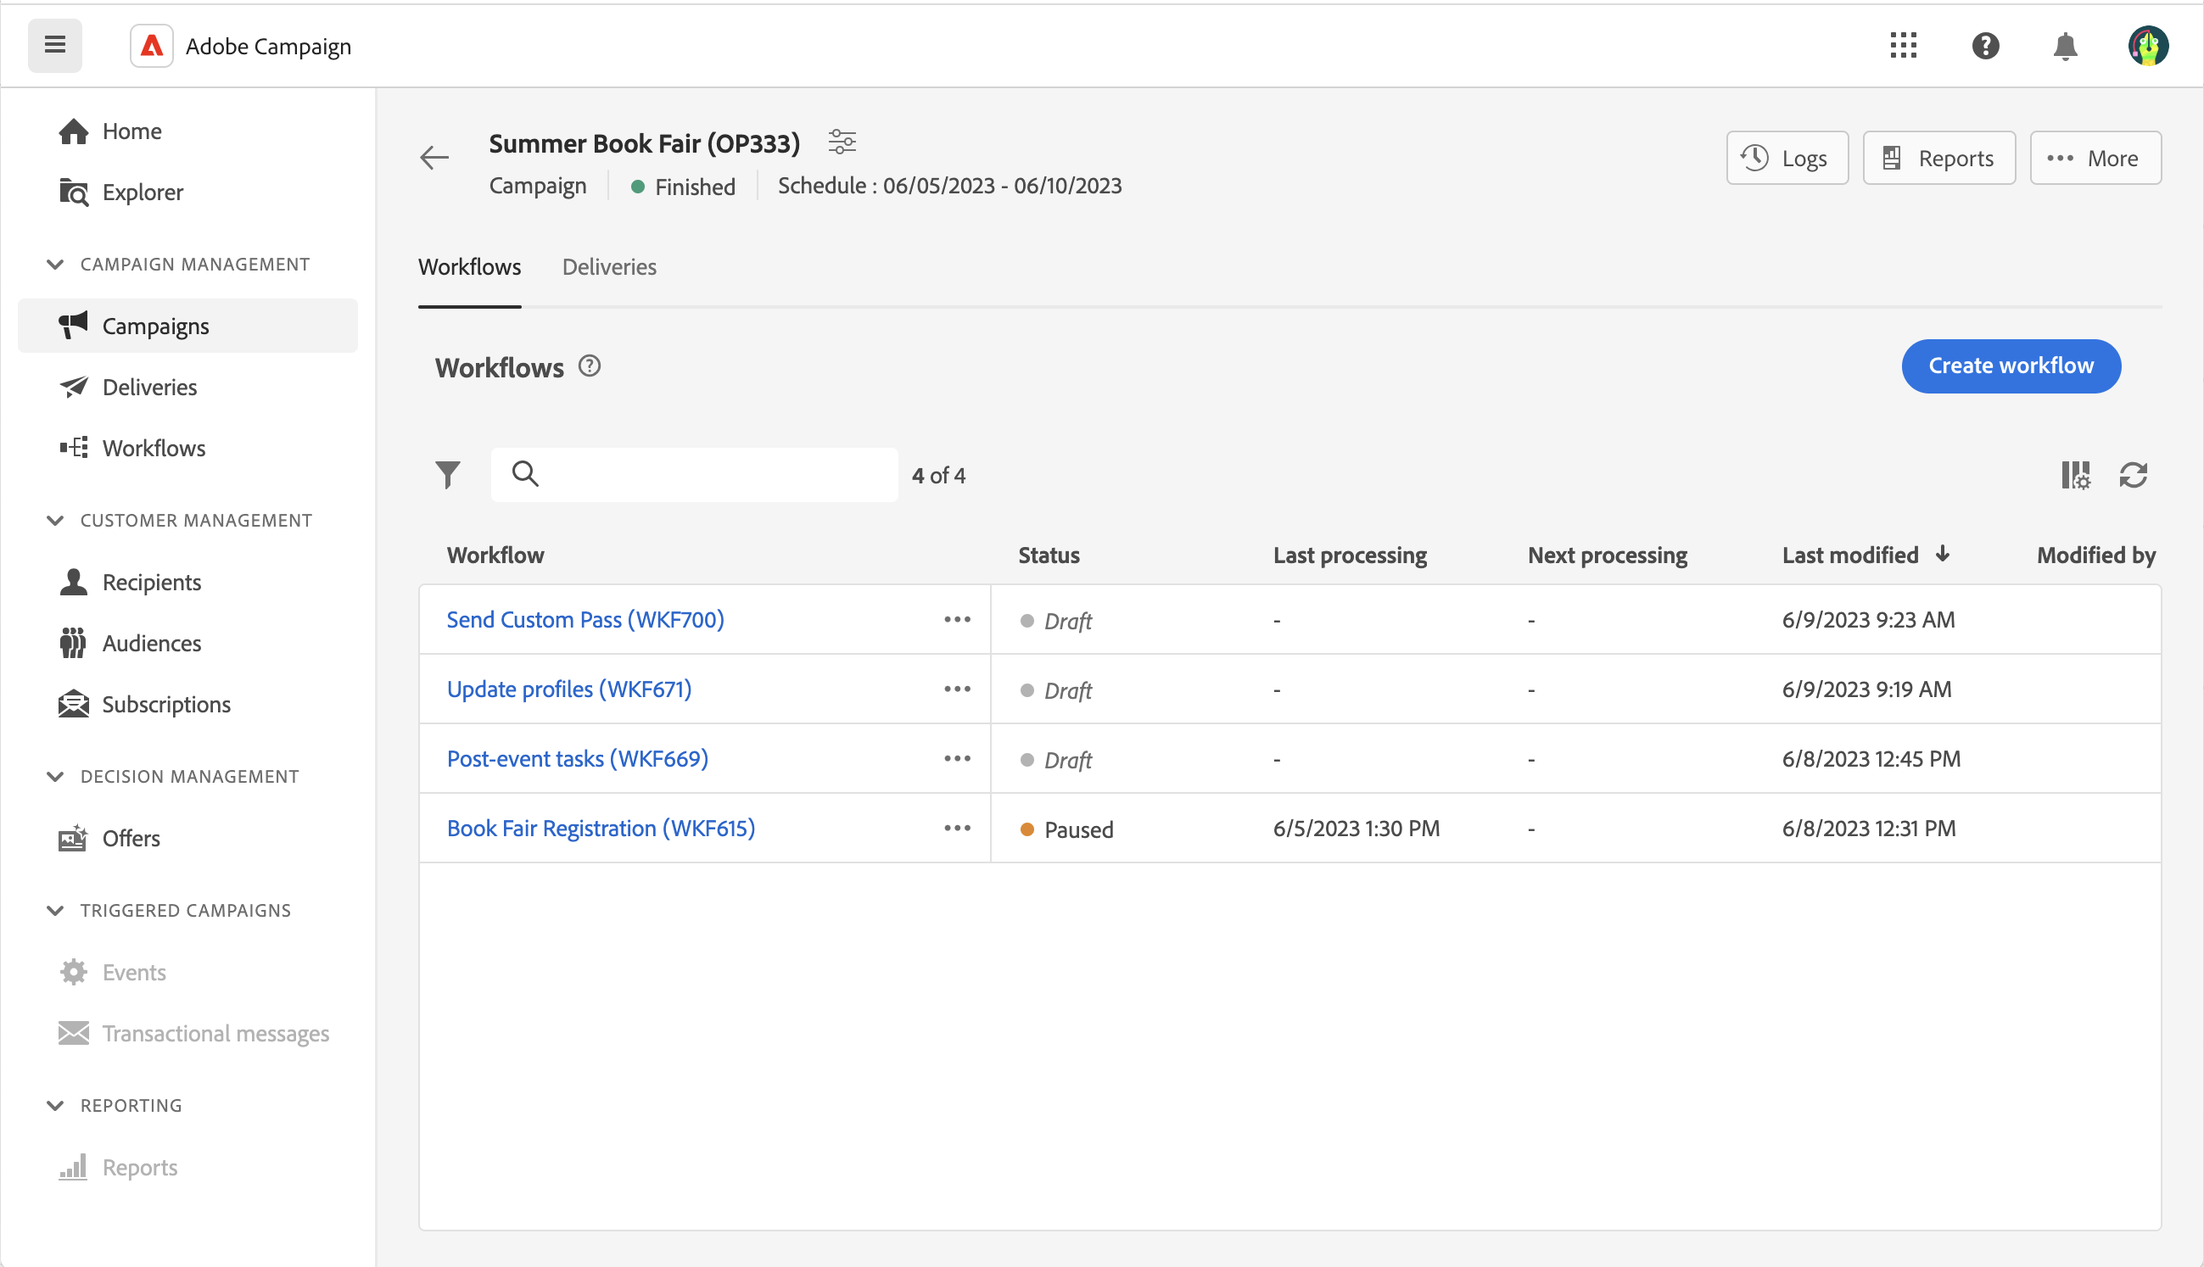
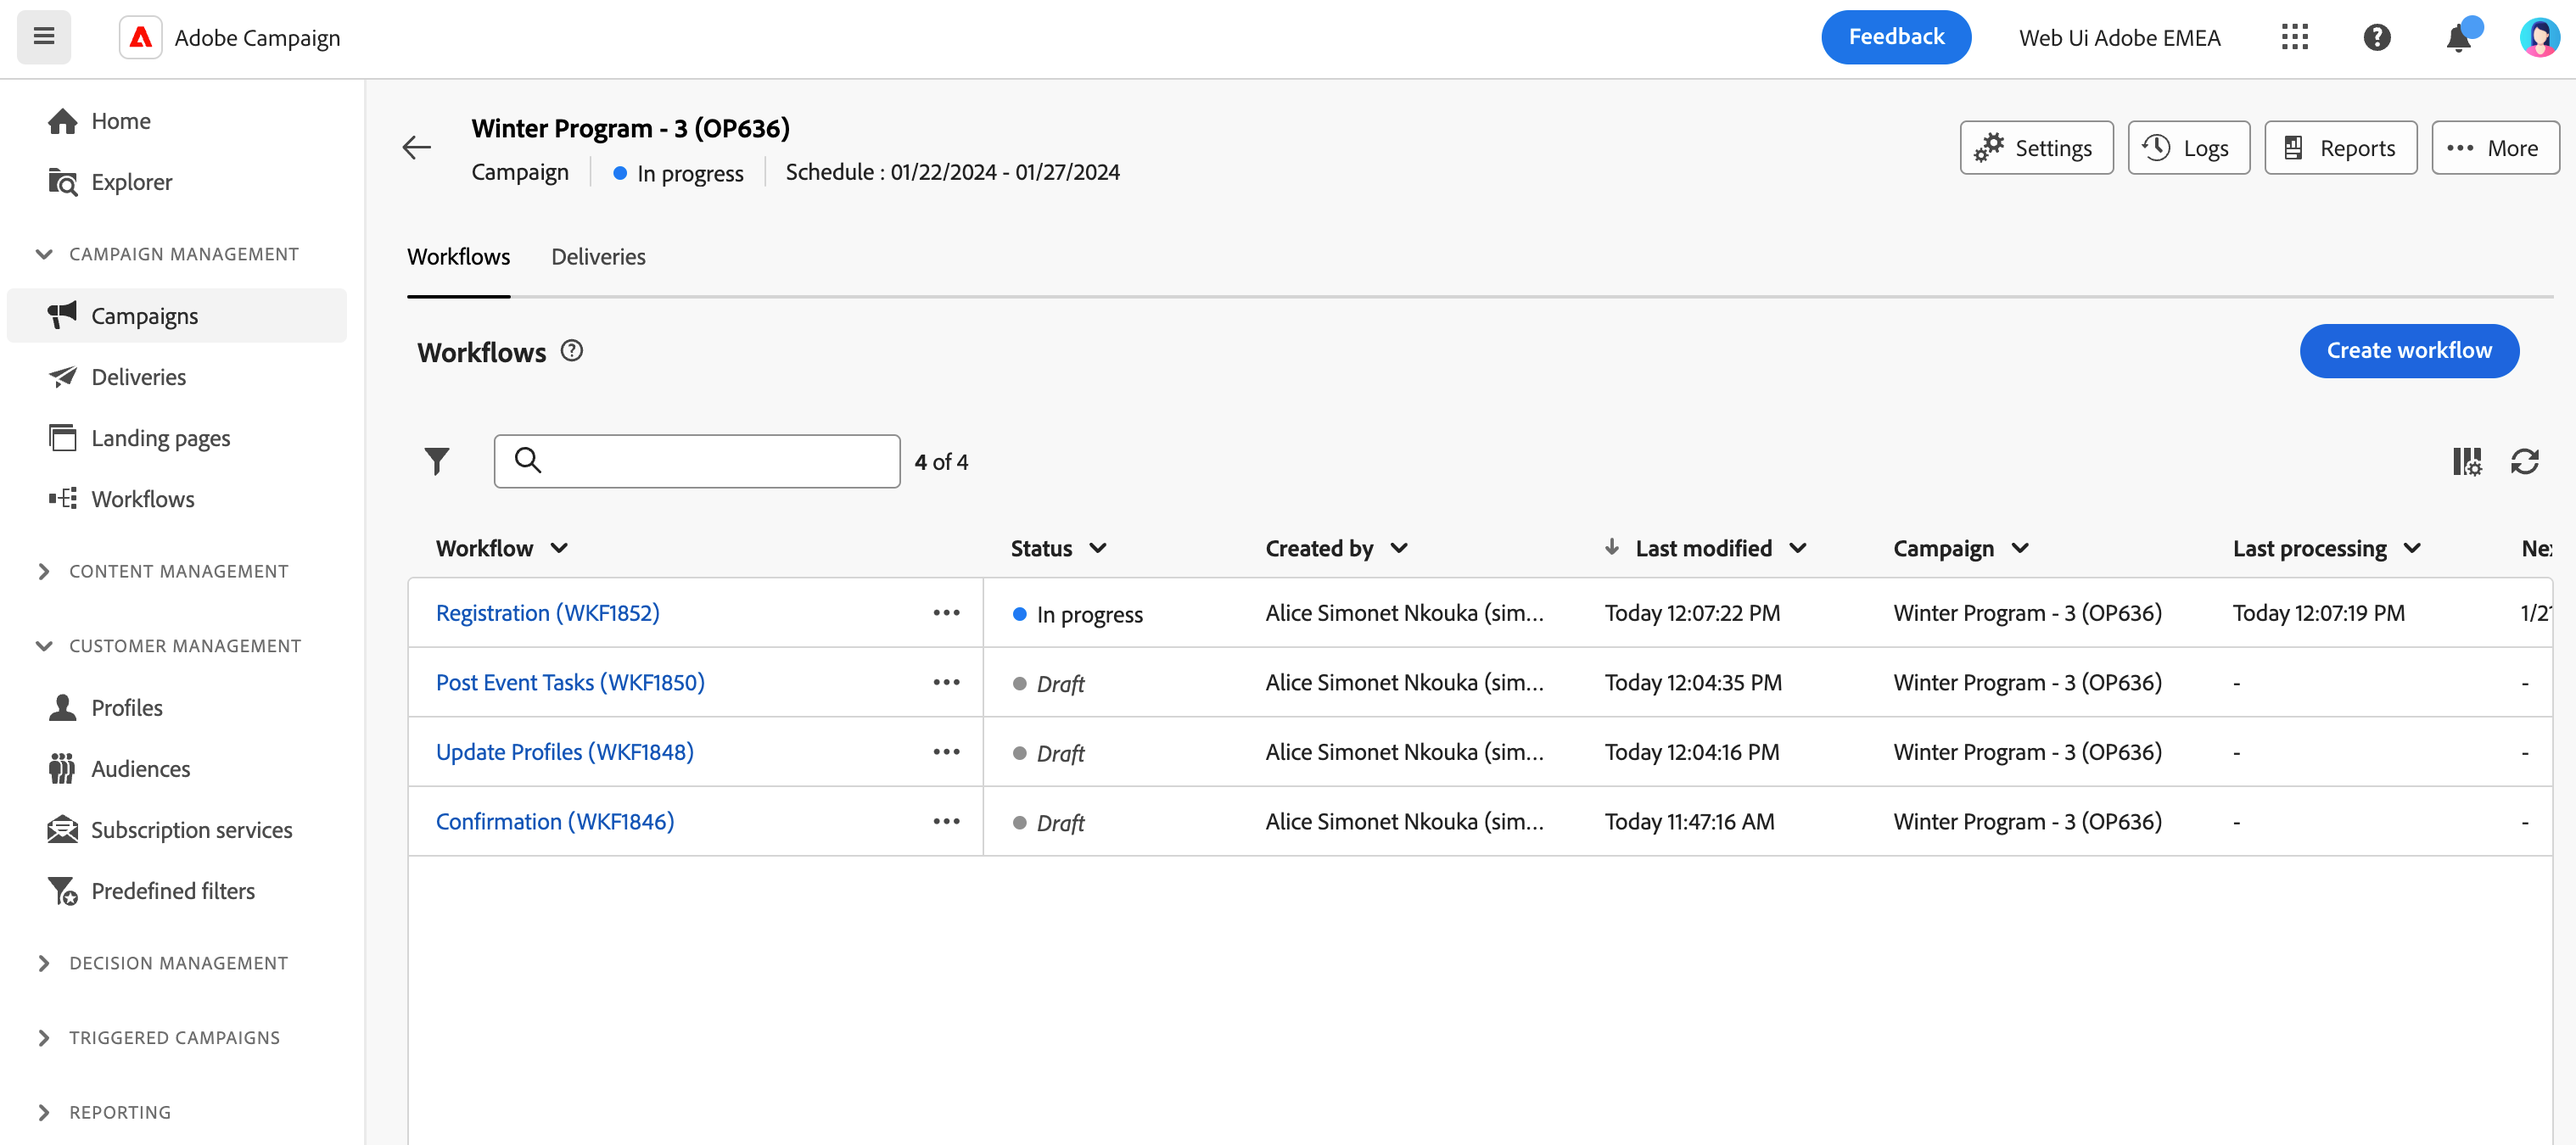
Update campaigns section

diff --git a/help/v8/campaigns/manage-campaigns.md b/help/v8/campaigns/manage-campaigns.md
@@ -2,7 +2,7 @@
 audience: end-user
 title: Get started with campaigns
 description: Learn how to start with cross-channel campaigns
-badge: label="Beta"
+badge: label="Limited Availability"
 exl-id: 690229e7-73e1-4cc1-b69a-f3e5d8de58af
 ---
 # Access and manage your campaigns{#manage-campaigns}
@@ -12,7 +12,7 @@ exl-id: 690229e7-73e1-4cc1-b69a-f3e5d8de58af
 >title="Campaign schedule"
 >abstract="Set or modify your campaign schedule."
 
-To create a new campaign, or manage your existing campaigns, click the **[!UICONTROL Campaigns]** menu on the left navigation. 
+To access and manage your campaigns, click the **[!UICONTROL Campaigns]** menu on the left navigation. 
 
 ## List of campaigns {#access-campaigns}
 
@@ -24,43 +24,65 @@ In the campaign list, two tabs are available:
 
 ![Campaign list](assets/campaign-list.png)
 
-By default, each campaign in the list displays information about its current status, creation date, the last time it was modified, etc.
+By default, each campaign in the list displays information about its current status, start and end dates, creation date, the last time it was modified, etc.
 
-You can customize the displayed columns by clicking the **Configure column for a custom layout** icon located in the upper-right corner of the list. This allows you to add additional information to the list. In addition, a search bar and filters are available to facilitate easy searching within the list. [Learn more](../get-started/user-interface.md#list-screens).
+You can customize the displayed columns by clicking the **Configure column for a custom layout** icon located in the upper-right corner of the list. This allows you to add or remove columns, and reorder information in the campaign list. 
+
+In addition, a search bar and filters are available to facilitate easy searching within the list. [Learn more](../get-started/user-interface.md#list-screens).
 
 For example, you can filter on your campaign schedule. Open the filter panel and use the **Start - End Date** section:
 
 ![Campaign filter](assets/campaign-filter-on-dates.png)
 
-## Campaign dashboard{#campaign-dashboard}
+## Campaign dashboard {#campaign-dashboard}
 
 >[!CONTEXTUALHELP]
 >id="acw_campaign_delivery_list"
 >title="List of deliveries in the campaign"
 >abstract="The **Deliveries** tab lists all deliveries linked to the current campaign. Click the name of a delivery to edit it. Use the Create delivery button to add a new delivery for this campaign."
 
-In the **Browse** tab of the campaign list, click a campaign to display its details. 
+In the **Browse** tab of the campaign list, click a campaign name to display its details. 
 
 ![Campaign dashboard](assets/campaign-dashboard.png)
 
-The status and schedule of the campaign is displayed at the top of the screen. You can use the **Configure campaign settings** icon to modify the campaign's properties that were defined when creating the campaign. Three buttons are available that allow you to view logs, reporting, duplicate or delete the campaign. See this [section](create-campaigns.md#create-campaigns) 
+The status and schedule of the campaign is displayed at the top of the screen. You can use the **Settings** button to update the properties of your campaign, such as the its label, folder, and description. You can also change the schedule of your campaign from the settings screen. Learn more about campaign schedule in [this section](create-campaigns.md#campaign-schedule).
 
-Two tabs are available:
+From the campaign dashboard, use the **Logs** and **Reports** buttons to monitor your campaign. Learn more in this [section](create-campaigns.md#create-campaigns) 
 
-* The **Workflows** tab lists all workflows linked to the campaign. This tab also allows you to create a new workflow inside the campaign. See this [section](create-campaigns.md#create-campaigns).
+For each campaign, the dashboard shows two main tabs: Workflows and Deliveries. 
 
-* The **Deliveries** tab lists all deliveries linked to the current campaign. You can also create a new delivery inside the campaign. See this [section](create-campaigns.md#create-campaigns).
+* The **Workflows** tab lists all workflows associated to the campaign. This tab also allows you to create a new workflow inside the campaign. See this [section](create-campaigns.md#create-campaigns).
 
-## Duplicate and delete a campaign
-
-You can duplicate or delete a campaign:
-
-* from the list of campaigns, click the ellipsis button then select **Duplicate** or **Delete**.
-* from the campaign itself, click the **More** button then select **Duplicate** or **Delete**.
+* The **Deliveries** tab lists all deliveries created in the current campaign. You can also create a new delivery inside the campaign. See this [section](create-campaigns.md#create-campaigns).
 
 >[!NOTE]
 >
 >The **Deliveries** tab displays all deliveries linked to the campaign. However, deliveries created in a workflow cannot be deleted from there. To delete a delivery created in the context of a workflow, you must delete the delivery activity from the workflow. [Learn more](../msg/gs-messages.md#delivery-delete).
+
+
+## Delete a campaign {#campaign-delete}
+
+You have two ways to delete a campaign:
+
+* from the list of campaigns, click the ellipsis button then select **Delete**
+
+    ![Delete a campaign from the list of campaigns](assets/delete-a-campaign-from-list.png)
+    
+* from the campaign itself, click the **More** button then select **Delete**
+
+    ![Delete a campaign from the campaign dashboard](assets/delete-a-campaign-from-dashboard.png)
+
+
+## Duplicate a campaign {#campaign-duplicate}
+
+You have two ways to duplicate a campaign:
+
+* from the list of campaigns, click the ellipsis button then select **Duplicate**
+    
+* from the campaign itself, click the **More** button then select **Duplicate**
+
+In both cases, confirm the duplication to create the new campaign. The label of the campaign **Copy of `<label of the initial campaign`**. Browse to the campaign settings to update this label.
+    
 
 ## Work with campaign templates{#manage-campaign-templates}
 
@@ -68,7 +90,8 @@ Campaign templates contain pre-configured settings which can be reused for creat
 
 A campaign template can store the following information:
 
-* the campaign's **Properties** and **Schedule** settings 
+* the campaign **Settings**
+* the campaign  **Schedule** 
 * workflow templates
 * delivery templates
 

diff --git a/help/v8/campaigns/create-campaigns.md b/help/v8/campaigns/create-campaigns.md
@@ -2,7 +2,7 @@
 audience: end-user
 title: Create campaigns with Adobe Campaign Web
 description: Learn how to build cross-channel campaigns with Adobe Campaign Web
-badge: label="Beta" 
+badge: label="Limited Availability" 
 exl-id: a6e01470-73e5-4973-aa6a-9836a6ee1cd2
 ---
 
@@ -18,23 +18,28 @@ exl-id: a6e01470-73e5-4973-aa6a-9836a6ee1cd2
 >title="Campaign properties"
 >abstract="In this screen, you can check and update your campaign settings: its label, internal name, folder, and description. You can also view which user it is assigned to."
 
-To create a new campaign, you need to define its properties, schedule, and include workflows and deliveries.
+To create a new campaign, you need to define its settings, schedule, and include workflows and deliveries.
 
-## Create the campaign{#campaign-create}
+## Create the campaign {#campaign-create}
 
 To create a new campaign, follow these steps:
 
 1. Click the **[!UICONTROL Campaigns]** menu, and click the **[!UICONTROL Create campaign]** button.
+
+    ![Create a new campaign](assets/create-campaign-button.png)
+
 1. Select the **Template** to use and provide a label for the campaign. [Read more](manage-campaigns.md#manage-campaign-templates).
 1. If needed, you can change the following **Additional options**: internal name, folder, assignee, description and nature.
 1. Define the **Schedule** of your campaign. Learn how to set your campaign schedule in [this section](#campaign-schedule)
 1. Click **Create**.
+
+    ![Create campaign properties](assets/create-a-campaign-properties.png)
+
 1. Add workflows and deliveries to your campaign:
 
      * From the **Workflows** tab, click **Create workflow**. A default workflow is automatically added when you create your campaign. Lean more on how to [create a workflow](../workflows/create-workflow.md).
-     * From the **Deliveries** tab, click **Create delivery**. [Learn more](../msg/gs-messages.md)
 
-1. Use the **Logs** and **Reporting** buttons to analyze your campaign's performance.
+     * From the **Deliveries** tab, click **Create delivery**. [Learn more](../msg/gs-messages.md)
 
 ## Monitor and track your campaign{#campaign-monitoring}
 
@@ -45,7 +50,6 @@ You can also view the dedicated reports by clicking the **Reports** button. See 
 
 ## Define the campaign schedule {#campaign-schedule}
 
-
 >[!CONTEXTUALHELP]
 >id="acw_campaign_creation_schedule"
 >title="Campaign schedule"
@@ -55,8 +59,6 @@ You can also view the dedicated reports by clicking the **Reports** button. See 
 The campaign starts when the start date is reached. As long as the start date is not reached, the campaign has the **[!UICONTROL Draft]** status. Then when the start date is reached, it turns to **[!UICONTROL In progress]**. Once the end date is reached, the campaign is set to **[!UICONTROL Completed]**.
    
 Start and end dates are displayed in the campaign list, and can be used as a filter. See this [section](manage-campaigns.md#access-campaigns).
-
-![Define your campaign properties](assets/campaign-properties.png)
 
 >[!NOTE]
 >

diff --git a/help/v8/campaigns/gs-campaigns.md b/help/v8/campaigns/gs-campaigns.md
@@ -2,7 +2,7 @@
 audience: end-user
 title: Get started with campaigns
 description: Learn how to start with cross-channel campaigns
-badge: label="Beta" 
+badge: label="Limited Availability" 
 exl-id: f2b9f8e6-5ded-4a47-89e9-96650cd78229
 ---
 
@@ -22,23 +22,10 @@ Campaigns offer dedicated reporting metrics to gain comprehensive insights into 
 
 ![Campaign flow](assets/campaign-flow.png)
 
-Learn how to create and manage campaigns in the following sections:
+Learn how to create, manage, and monitor your campaigns in the following sections:
 
 * [Access and manage your campaigns](manage-campaigns.md)
 * [Create your first campaign](create-campaigns.md)
+* [Browse your campaign reports](../reporting/campaign-reports.md).
 
 
-
-<!--
-Use Adobe Campaign to create cross-channel campaigns. With its marketing campaign orchestration capabilities, you can manage and centralize customer data, design customer communications and campaigns, and create personalized experiences across different channels. In this version, email, push and SMS channels are available.
-
-Design and execute high-volume email campaigns to deliver personalized messages, for all platforms and screen sizes. 
-Measure the effectiveness of your deliveries with detailed reports including the counts of opens, clicks, forwards, and more. With Adobe Campaign segmentation capabilities, you can run queries against a high-volume database, and easily define dynamic marketing segments which perfectly target your campaigns.
--->
-
-<!--
-Get Started with campaigns
-Adobe Campaign offers a set of solutions that help you personalize and deliver campaigns across all of your online and offline channels. You can create, configure, execute and analyze marketing campaigns. All marketing campaigns can be managed from a unified control center. Discover how to browse and create marketing campaigns in this section.
-
-Campaigns include actions (deliveries) and processes (importing or extracting files), as well as resources (marketing documents, delivery outlines). They are used in marketing campaigns. Campaigns are part of a program, and programs are included in a campaign plan.
--->

diff --git a/help/v8/rn/whats-new.md b/help/v8/rn/whats-new.md
@@ -57,7 +57,7 @@ Adobe Campaign Web features a powerful query modeler that simplifies the process
 * Define audiences to target in your messages or workflows, and effortlessly create new audiences tailored to your needs
 * Apply rules within workflow activities, such as Split and Reconciliation, to align with your specific requirements
 * Create predefined filters that serve as shortcuts during various filtering operations, whether you're working with data lists or forming the audience for a delivery
-* Add rule to filter the data displayed in reports.    
+* Add rule to filter the data displayed in reports
 * Create custom rules to filter the data displayed in lists such as recipients, deliveries lists, and more
 
 Learn more in [this section](../query/query-modeler-overview.md).

diff --git a/help/v8/get-started/user-interface.md b/help/v8/get-started/user-interface.md
@@ -25,7 +25,7 @@ Learn how to connect to Adobe Campaign and discover Experience Cloud navigation 
 
 Campaign home page lets you quickly and easily browse key resources, indicators, and components. 
 
-The upper section of the home page provides details about latest updates and new capabilities available in the product, with link to Release Notes and related documentation.
+The upper section of the home page provides details about latest updates and new capabilities available in the product, with link to Release Notes and detailed documentation. Use the left arrow to scroll feature cards. 
 
 ![](assets/home.png)
 
